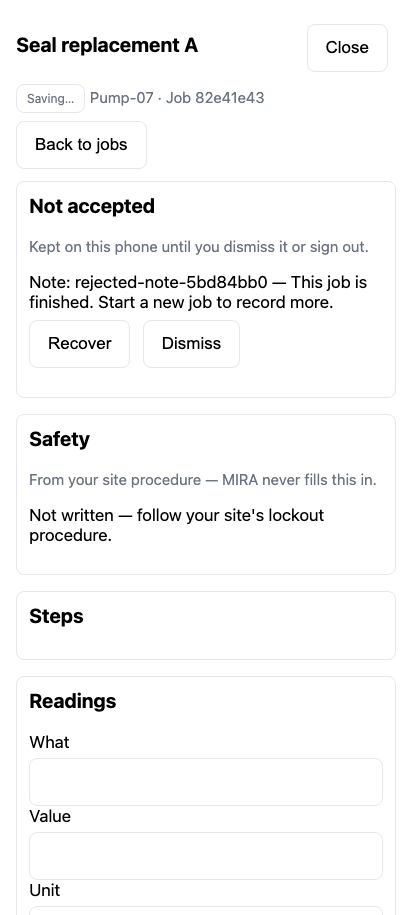
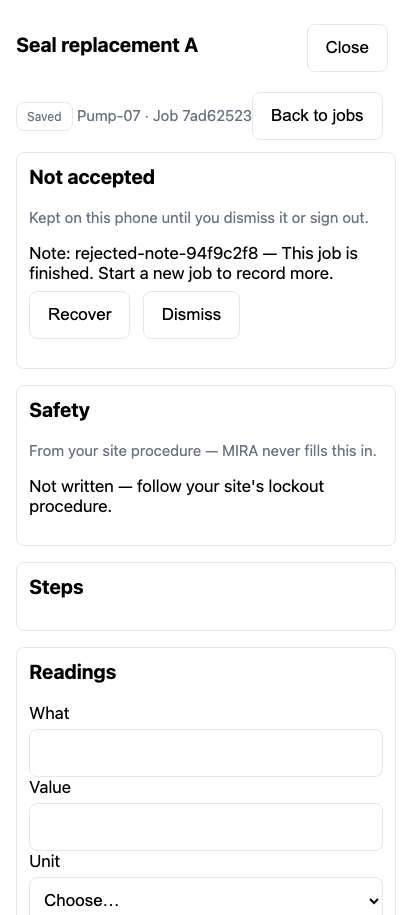
fix(hub): Living Sheet verifies local removal and keeps the badge per job (Codex #5276 F1/F2)
F1: the production storage adapter swallows a removeItem failure, so
Dismiss and the sign-out purge now read the key back. Dismiss keeps the
row while the text is still on the phone; the purge reports what it
could not clear, and sign-out asks before leaving it behind (Cancel keeps
the technician signed in). The sign-out sequence moves into
clearSheetDataForSignOut so it is unit-tested.

F2: the panel tracks which job's replay is running. Opening a job resets
the badge to that job, and a replay that could not start (another job's
replay holds the device-wide drain) no longer leaves "Saving…" on.

Browser proof extended: job B shows no "Saving…" on open, after a note
written behind A's held replay, or after A's rejection; reopened A shows
"Saved". Screenshots regenerated.

Claude-Session: https://claude.ai/code/session_01HZ4euNRGtYQWT6948SCUJS

diff --git a/mira-hub/src/factorylm-ui/__tests__/living-sheet-client.test.ts b/mira-hub/src/factorylm-ui/__tests__/living-sheet-client.test.ts
@@ -21,6 +21,8 @@ import {
   removeFromSheetQueue,
   saveBadge,
   sheetQueueKey,
+  signOutPurgeFailedPrompt,
+  clearSheetDataForSignOut,
   signOutUnsyncedPrompt,
   startJobErrorMessage,
   stepNeedsConfirm,
@@ -434,8 +436,7 @@ describe("purgeSheetQueues", () => {
     await enqueueSheetEvent(store, "t1", "j1", stepEvent("a"));
     await enqueueSheetEvent(store, "t1", "j2", stepEvent("b"));
     await store.set("flm.unrelated.key", "keep me");
-    const removed = await purgeSheetQueues(store);
-    expect(removed).toBe(2);
+    expect(await purgeSheetQueues(store)).toEqual({ purged: 2, remaining: 0 });
     expect(await loadSheetQueue(store, "t1", "j1")).toEqual([]);
     expect(await store.get("flm.unrelated.key")).toBe("keep me");
   });
@@ -937,6 +938,102 @@ describe("#5212 — rejected offline note survives navigation and reload", () =>
         rejectedAt: "2026-11-07T00:00:00.000Z",
       }),
     ).resolves.toBe(false);
+  });
+
+  // Codex #5276 F1: the production adapter swallows a removeItem failure, so
+  // a remove that resolves but leaves the key must never count as removed.
+  function stickyRemoveStore(stickyPrefix: string): KvStore {
+    const m = new Map<string, string>();
+    return {
+      get: async (k) => (m.has(k) ? m.get(k)! : null),
+      set: async (k, v) => {
+        m.set(k, v);
+        return true;
+      },
+      remove: async (k) => {
+        if (!k.startsWith(stickyPrefix)) m.delete(k);
+      },
+      keys: async () => Array.from(m.keys()),
+    };
+  }
+
+  it("dismiss reports failure when a silently failed remove leaves the last rejection on the phone", async () => {
+    const store = stickyRemoveStore("flm.sheetrej.v1.");
+    await enqueueSheetEvent(store, "t1", "jobA", noteEvent("n-1", "still here"));
+    await drainSheetQueue(store, "t1", "jobA", async () => ({ status: "rejected", message: "job_finished" }), "nb-1");
+    expect(await loadRejectedSheetEvents(store, "t1", "nb-1", "jobA")).toHaveLength(1);
+    expect(await dismissRejectedSheetEvent(store, "t1", "nb-1", "jobA", "n-1")).toBe(false);
+    expect(await loadRejectedSheetEvents(store, "t1", "nb-1", "jobA")).toHaveLength(1);
+  });
+
+  it("dismiss of the last rejection succeeds when the remove really happens (control)", async () => {
+    const store = memoryStore();
+    await enqueueSheetEvent(store, "t1", "jobA", noteEvent("n-1", "gone"));
+    await drainSheetQueue(store, "t1", "jobA", async () => ({ status: "rejected", message: "job_finished" }), "nb-1");
+    expect(await dismissRejectedSheetEvent(store, "t1", "nb-1", "jobA", "n-1")).toBe(true);
+    expect(await loadRejectedSheetEvents(store, "t1", "nb-1", "jobA")).toEqual([]);
+  });
+
+  it("purge reports keys a silently failed remove left behind, and a throwing remove", async () => {
+    const store = stickyRemoveStore("flm.sheetrej.v1.");
+    await enqueueSheetEvent(store, "t1", "jobA", noteEvent("n-1", "rejected words"));
+    await drainSheetQueue(store, "t1", "jobA", async () => ({ status: "rejected", message: "job_finished" }), "nb-1");
+    await enqueueSheetEvent(store, "t1", "jobB", noteEvent("n-2", "pending"));
+    const { remaining } = await purgeSheetQueues(store);
+    expect(remaining).toBe(1);
+    expect(await loadSheetQueue(store, "t1", "jobB")).toEqual([]);
+    expect(await loadRejectedSheetEvents(store, "t1", "nb-1", "jobA")).toHaveLength(1);
+
+    const throwing = memoryStore();
+    await enqueueSheetEvent(throwing, "t1", "jobA", noteEvent("n-3", "x"));
+    throwing.remove = async () => {
+      throw new Error("denied");
+    };
+    expect(await purgeSheetQueues(throwing)).toEqual({ purged: 0, remaining: 1 });
+  });
+
+  it("sign-out warns only when the purge left sheet items on the phone", () => {
+    expect(signOutPurgeFailedPrompt(0)).toBeNull();
+    expect(signOutPurgeFailedPrompt(1)).toBe(
+      "Could not clear 1 saved sheet item from this phone. Sign out anyway and leave it here?",
+    );
+    expect(signOutPurgeFailedPrompt(3)).toBe(
+      "Could not clear 3 saved sheet items from this phone. Sign out anyway and leave them here?",
+    );
+  });
+
+  it("sign-out stops when the purge left sheet text and the technician cancels", async () => {
+    const store = stickyRemoveStore("flm.sheetrej.v1.");
+    await enqueueSheetEvent(store, "t1", "jobA", noteEvent("n-1", "rejected words"));
+    await drainSheetQueue(store, "t1", "jobA", async () => ({ status: "rejected", message: "job_finished" }), "nb-1");
+    const asked: string[] = [];
+    const confirm = (m: string) => {
+      asked.push(m);
+      return asked.length === 1; // OK to discard unsynced, then Cancel on "could not clear"
+    };
+    const purging = vi.fn();
+    expect(await clearSheetDataForSignOut(store, confirm, purging)).toBe(false);
+    expect(purging).toHaveBeenCalledTimes(1);
+    expect(asked).toHaveLength(2);
+    expect(asked[1]).toBe(signOutPurgeFailedPrompt(1));
+  });
+
+  it("sign-out goes ahead with no second prompt when the purge cleared everything (control)", async () => {
+    const store = memoryStore();
+    await enqueueSheetEvent(store, "t1", "jobA", noteEvent("n-1", "pending"));
+    const asked: string[] = [];
+    expect(await clearSheetDataForSignOut(store, (m) => (asked.push(m), true))).toBe(true);
+    expect(asked).toHaveLength(1);
+    expect(await countAllSheetQueueEntries(store)).toBe(0);
+  });
+
+  it("sign-out Cancel on the unsynced prompt keeps everything and never purges", async () => {
+    const store = memoryStore();
+    await enqueueSheetEvent(store, "t1", "jobA", noteEvent("n-1", "pending"));
+    const purging = vi.fn();
+    expect(await clearSheetDataForSignOut(store, () => false, purging)).toBe(false);
+    expect(purging).not.toHaveBeenCalled();
+    expect(await countAllSheetQueueEntries(store)).toBe(1);
   });
 
   it("only note and question kinds carry recoverable text", () => {

diff --git a/mira-hub/src/factorylm-ui/LivingSheet.tsx b/mira-hub/src/factorylm-ui/LivingSheet.tsx
@@ -523,6 +523,8 @@ export function LivingSheet({ notebookId, technicianName, onSheetOpenChange, rec
   // late response for a job the technician has since navigated away from
   // can never land on the wrong job's screen.
   const openJobIdRef = useRef<string | null>(null);
+  // The job whose queue replay is in flight (one drain at a time, device-wide).
+  const drainingJobRef = useRef<string | null>(null);
 
   // "sent only while a sheet is open" (TASK-S3) must also hold when this
   // notebook's sheet layer goes away entirely (a notebook switch remounts
@@ -619,21 +621,35 @@ export function LivingSheet({ notebookId, technicianName, onSheetOpenChange, rec
     async (jobId: string) => {
       const stillSelected = () => responseStillTargetsSelectedJob(jobId, openJobIdRef.current);
       if (mounted.current && stillSelected()) setBadge((b) => ({ ...b, saving: true }));
-      const result = await drainSheetQueue(localStorageStore, scopeId, jobId, async (ev) => {
-        // The submit itself always proceeds, even for a job the technician
-        // has since navigated away from — switching screens must never lose
-        // a queued write. Only the SCREEN-facing state below is job-gated.
-        const res = await apiPostEvent(notebookId, jobId, ev);
-        if (res.ok) return { status: "ok" as const };
-        if (res.status === 409 && res.body.error === "conflict") {
-          if (mounted.current && stillSelected()) setConflict({ event: ev, serverView: res.body.view ?? null });
-          return { status: "conflict" as const };
-        }
-        if (res.status >= 500 || res.status === 401) throw new Error(res.body.error ?? "server_error");
-        const message = startJobErrorMessage(res.body.error, res.body.message);
-        return { status: "rejected" as const, message };
-      }, notebookId);
-      if (!result) return;
+      // Codex #5276 F2: remember whose replay is running, so a job opened
+      // mid-replay shows "Saving…" only when the replay is its own.
+      const priorDrainJob = drainingJobRef.current;
+      drainingJobRef.current = jobId;
+      let result: Awaited<ReturnType<typeof drainSheetQueue>> | undefined;
+      try {
+        result = await drainSheetQueue(localStorageStore, scopeId, jobId, async (ev) => {
+          // The submit itself always proceeds, even for a job the technician
+          // has since navigated away from — switching screens must never lose
+          // a queued write. Only the SCREEN-facing state below is job-gated.
+          const res = await apiPostEvent(notebookId, jobId, ev);
+          if (res.ok) return { status: "ok" as const };
+          if (res.status === 409 && res.body.error === "conflict") {
+            if (mounted.current && stillSelected()) setConflict({ event: ev, serverView: res.body.view ?? null });
+            return { status: "conflict" as const };
+          }
+          if (res.status >= 500 || res.status === 401) throw new Error(res.body.error ?? "server_error");
+          const message = startJobErrorMessage(res.body.error, res.body.message);
+          return { status: "rejected" as const, message };
+        }, notebookId);
+      } finally {
+        // null = another replay was already running and this one never
+        // started; anything else (a result or a throw) means this one ended.
+        if (drainingJobRef.current === jobId) drainingJobRef.current = result === null ? priorDrainJob : null;
+      }
+      if (!result) {
+        if (mounted.current && stillSelected()) setBadge((b) => ({ ...b, saving: drainingJobRef.current === jobId }));
+        return;
+      }
       if (mounted.current && stillSelected()) {
         setBadge({ saving: false, queued: result.remaining, conflict: result.conflict, drainStuck: result.drainStuck });
         // R2-04: a non-409 rejection is surfaced with its payload and
@@ -700,6 +716,9 @@ export function LivingSheet({ notebookId, technicianName, onSheetOpenChange, rec
       setPhotoError(null);
       setConfirmStep(null);
       onSheetOpenChange({ notebookId, jobId });
+      // Codex #5276 F2: the badge belongs to the job on screen. Another job's
+      // replay finishing off screen must never leave this one on "Saving…".
+      setBadge({ saving: drainingJobRef.current === jobId, queued: 0, conflict: false });
       void loadSheet(jobId);
       void refreshBadge(jobId);
       void refreshWorkOrder(jobId);

diff --git a/mira-hub/src/factorylm-ui/__tests__/living-sheet.browser.integration.test.ts b/mira-hub/src/factorylm-ui/__tests__/living-sheet.browser.integration.test.ts
@@ -29,6 +29,7 @@ const NB = uuid();
 const JOB_A = uuid();
 const JOB_B = uuid();
 const NOTE = `rejected-note-${uuid().slice(0, 8)}`;
+const NOTE_B = "Belt tension checked on B while A replays";
 const REJECT_RE = new RegExp(`/sheets/${JOB_A}/events/$`);
 
 let server: http.Server;
@@ -244,6 +245,28 @@ describe.skipIf(!RUN)("#5212 Living Sheet rejected note browser proof (real comp
       await openJob(page, JOB_B);
       expect(await page.getByText("Belt check B").count(), "b: job B title rendered").toBeGreaterThan(0);
 
+      await page.waitForTimeout(500);
+      expect(await page.getByTestId("living-sheet-badge").innerText(), "b: job B does not inherit A's Saving…").not.toBe("Saving…");
+
+      // b2. Codex #5276 F2: a note on B while A's replay holds the device-wide
+      // drain. B's own replay cannot start, so B must not show "Saving…".
+      await page.getByLabel("Note", { exact: true }).fill(NOTE_B);
+      await page.getByRole("button", { name: "Add note" }).click();
+      await eventually(
+        "b2: B's note is queued on the phone",
+        () => page.evaluate((jobId) => {
+          let n = 0;
+          for (let i = 0; i < window.localStorage.length; i++) {
+            const k = window.localStorage.key(i);
+            if (k && k.startsWith("flm.sheetq") && k.endsWith(jobId)) n += (JSON.parse(window.localStorage.getItem(k) ?? "[]") as unknown[]).length;
+          }
+          return n;
+        }, JOB_B),
+        1,
+      );
+      await page.waitForTimeout(500);
+      expect(await page.getByTestId("living-sheet-badge").innerText(), "b2: job B is not stuck on Saving… behind A's replay").not.toBe("Saving…");
+
       // c. release the rejection; job B must show no Not accepted section.
       release();
       await eventually("c: rejection persisted under A's key", () => rejectedCount(page), 1);
@@ -251,6 +274,8 @@ describe.skipIf(!RUN)("#5212 Living Sheet rejected note browser proof (real comp
       await page.waitForTimeout(500);
       expect(await page.getByTestId("living-sheet-not-accepted").count(), "c: job B shows no Not accepted section").toBe(0);
       expect(await page.getByTestId("living-sheet-last-rejection").count(), "c: job B shows no last-rejection line").toBe(0);
+      // Codex #5276 F2: A's replay ending off screen must not leave B on "Saving…".
+      expect(await page.getByText("Saving…").count(), "c: job B is not stuck on Saving…").toBe(0);
 
       // d. reopen A: the original text and the rejection are both shown.
       await backToJobs(page);
@@ -259,6 +284,8 @@ describe.skipIf(!RUN)("#5212 Living Sheet rejected note browser proof (real comp
       await section.waitFor();
       expect(await section.innerText(), "d: Not accepted shows the unique note text").toContain(NOTE);
       expect(await section.innerText(), "d: Not accepted shows the rejection message").toContain(REJECT_MESSAGE);
+      await page.waitForTimeout(500);
+      expect(await page.getByText("Saving…").count(), "d: reopened A is not stuck on Saving…").toBe(0);
       await shotBoth(page, "not-accepted-reopened");
 
       // e. reload, reopen A: still shown.

diff --git a/mira-hub/src/factorylm-ui/living-sheet-client.ts b/mira-hub/src/factorylm-ui/living-sheet-client.ts
@@ -460,8 +460,10 @@ export async function dismissRejectedSheetEvent(
       const list = await readRejectedList(store, key);
       const next = list.filter((r) => r.event.clientEventId !== clientEventId);
       if (next.length === 0) {
+        // The production adapter swallows a removeItem failure, so read back:
+        // the row may only go once the text is really gone from the phone.
         await store.remove(key);
-        return true;
+        return (await store.get(key)) === null;
       }
       return await store.set(key, JSON.stringify(next));
     } catch {
@@ -497,11 +499,46 @@ function isLocalSheetKey(k: string): boolean {
 }
 
 /** Sign-out hygiene: remove every Living Work Sheet queue and kept rejection
- *  (all jobs, all tenants/users on this device). Returns how many keys were purged. */
-export async function purgeSheetQueues(store: KvStore): Promise<number> {
+ *  (all jobs, all tenants/users on this device). Each removal is read back,
+ *  because the production adapter swallows a removeItem failure: `remaining`
+ *  counts keys that are still on the phone, so sign-out never claims a purge
+ *  that did not happen. */
+export async function purgeSheetQueues(store: KvStore): Promise<{ purged: number; remaining: number }> {
   const keys = (await store.keys()).filter(isLocalSheetKey);
-  for (const k of keys) await store.remove(k);
-  return keys.length;
+  let remaining = 0;
+  for (const k of keys) {
+    try {
+      await store.remove(k);
+      if ((await store.get(k)) !== null) remaining++;
+    } catch {
+      remaining++;
+    }
+  }
+  return { purged: keys.length - remaining, remaining };
+}
+
+/** #5212: the sign-out text when the purge could not clear everything, or
+ *  null when nothing is left behind. */
+export function signOutPurgeFailedPrompt(remaining: number): string | null {
+  if (remaining <= 0) return null;
+  return `Could not clear ${remaining} saved sheet item${remaining === 1 ? "" : "s"} from this phone. Sign out anyway and leave ${remaining === 1 ? "it" : "them"} here?`;
+}
+
+/** The sheet half of sign-out. R2-32: ask before discarding anything unsynced
+ *  (Cancel keeps it, no purge). #5212: a purge that left sheet text on the
+ *  phone says so, and Cancel then keeps the technician signed in. Returns
+ *  whether sign-out should go ahead; `onPurgeStart` fires only if it purges. */
+export async function clearSheetDataForSignOut(
+  store: KvStore,
+  confirm: (message: string) => boolean,
+  onPurgeStart?: () => void,
+): Promise<boolean> {
+  const prompt = signOutUnsyncedPrompt(await countAllSheetQueueEntries(store));
+  if (prompt && !confirm(prompt)) return false;
+  onPurgeStart?.();
+  const { remaining } = await purgeSheetQueues(store);
+  const leftBehind = signOutPurgeFailedPrompt(remaining);
+  return !leftBehind || confirm(leftBehind);
 }
 
 /** R2-32: total queued entries across EVERY Living Work Sheet queue on this

diff --git a/mira-hub/src/factorylm-ui/hub-host.tsx b/mira-hub/src/factorylm-ui/hub-host.tsx
@@ -68,7 +68,7 @@ import { MachineObservations } from "./MachineObservations";
 import { WorkPacketPanel } from "./WorkPacketPanel";
 import { wantsPacketOpen } from "./work-packet-view";
 import { LivingSheet } from "./LivingSheet";
-import { countAllSheetQueueEntries, localStorageStore, parseSheetReceipts, purgeSheetQueues, signOutUnsyncedPrompt } from "./living-sheet-client";
+import { clearSheetDataForSignOut, localStorageStore, parseSheetReceipts } from "./living-sheet-client";
 import { NOTEBOOK_ACTIONS_STYLE } from "./notebook-actions";
 import { LEGACY_THREAD_ID, notebookMachines, notebookProjects, threadRefFromItem, notebookIdFromProject, type HubNotebook } from "./notebook-tree";
 import { answerTurnId, citationIndex, contextFor, lifecycleFromStream, livePartsWhileRunning, partsFromStream, sourceIdFor, threadFromPersisted, withManualSearchStatus, withSettledFollowups, type SettledFollowups } from "./to-interaction";
@@ -1011,13 +1011,14 @@ export function HubShellHost() {
               // the session that created them. R2-32: but they must not be
               // silently discarded either — ask first when anything is
               // unsynced; Cancel keeps them (no purge, no navigation). No
-              // unsynced entries => no prompt, same as before.
+              // unsynced entries => no prompt, same as before. #5212: a purge
+              // that left sheet text on the phone says so first.
               void (async () => {
-                const pending = await countAllSheetQueueEntries(localStorageStore);
-                const prompt = signOutUnsyncedPrompt(pending);
-                if (prompt && !window.confirm(prompt)) return;
-                setSigningOut(true);
-                await purgeSheetQueues(localStorageStore);
+                const proceed = await clearSheetDataForSignOut(localStorageStore, (m) => window.confirm(m), () => setSigningOut(true));
+                if (!proceed) {
+                  setSigningOut(false);
+                  return;
+                }
                 signOutToLogin();
               })();
             }}
